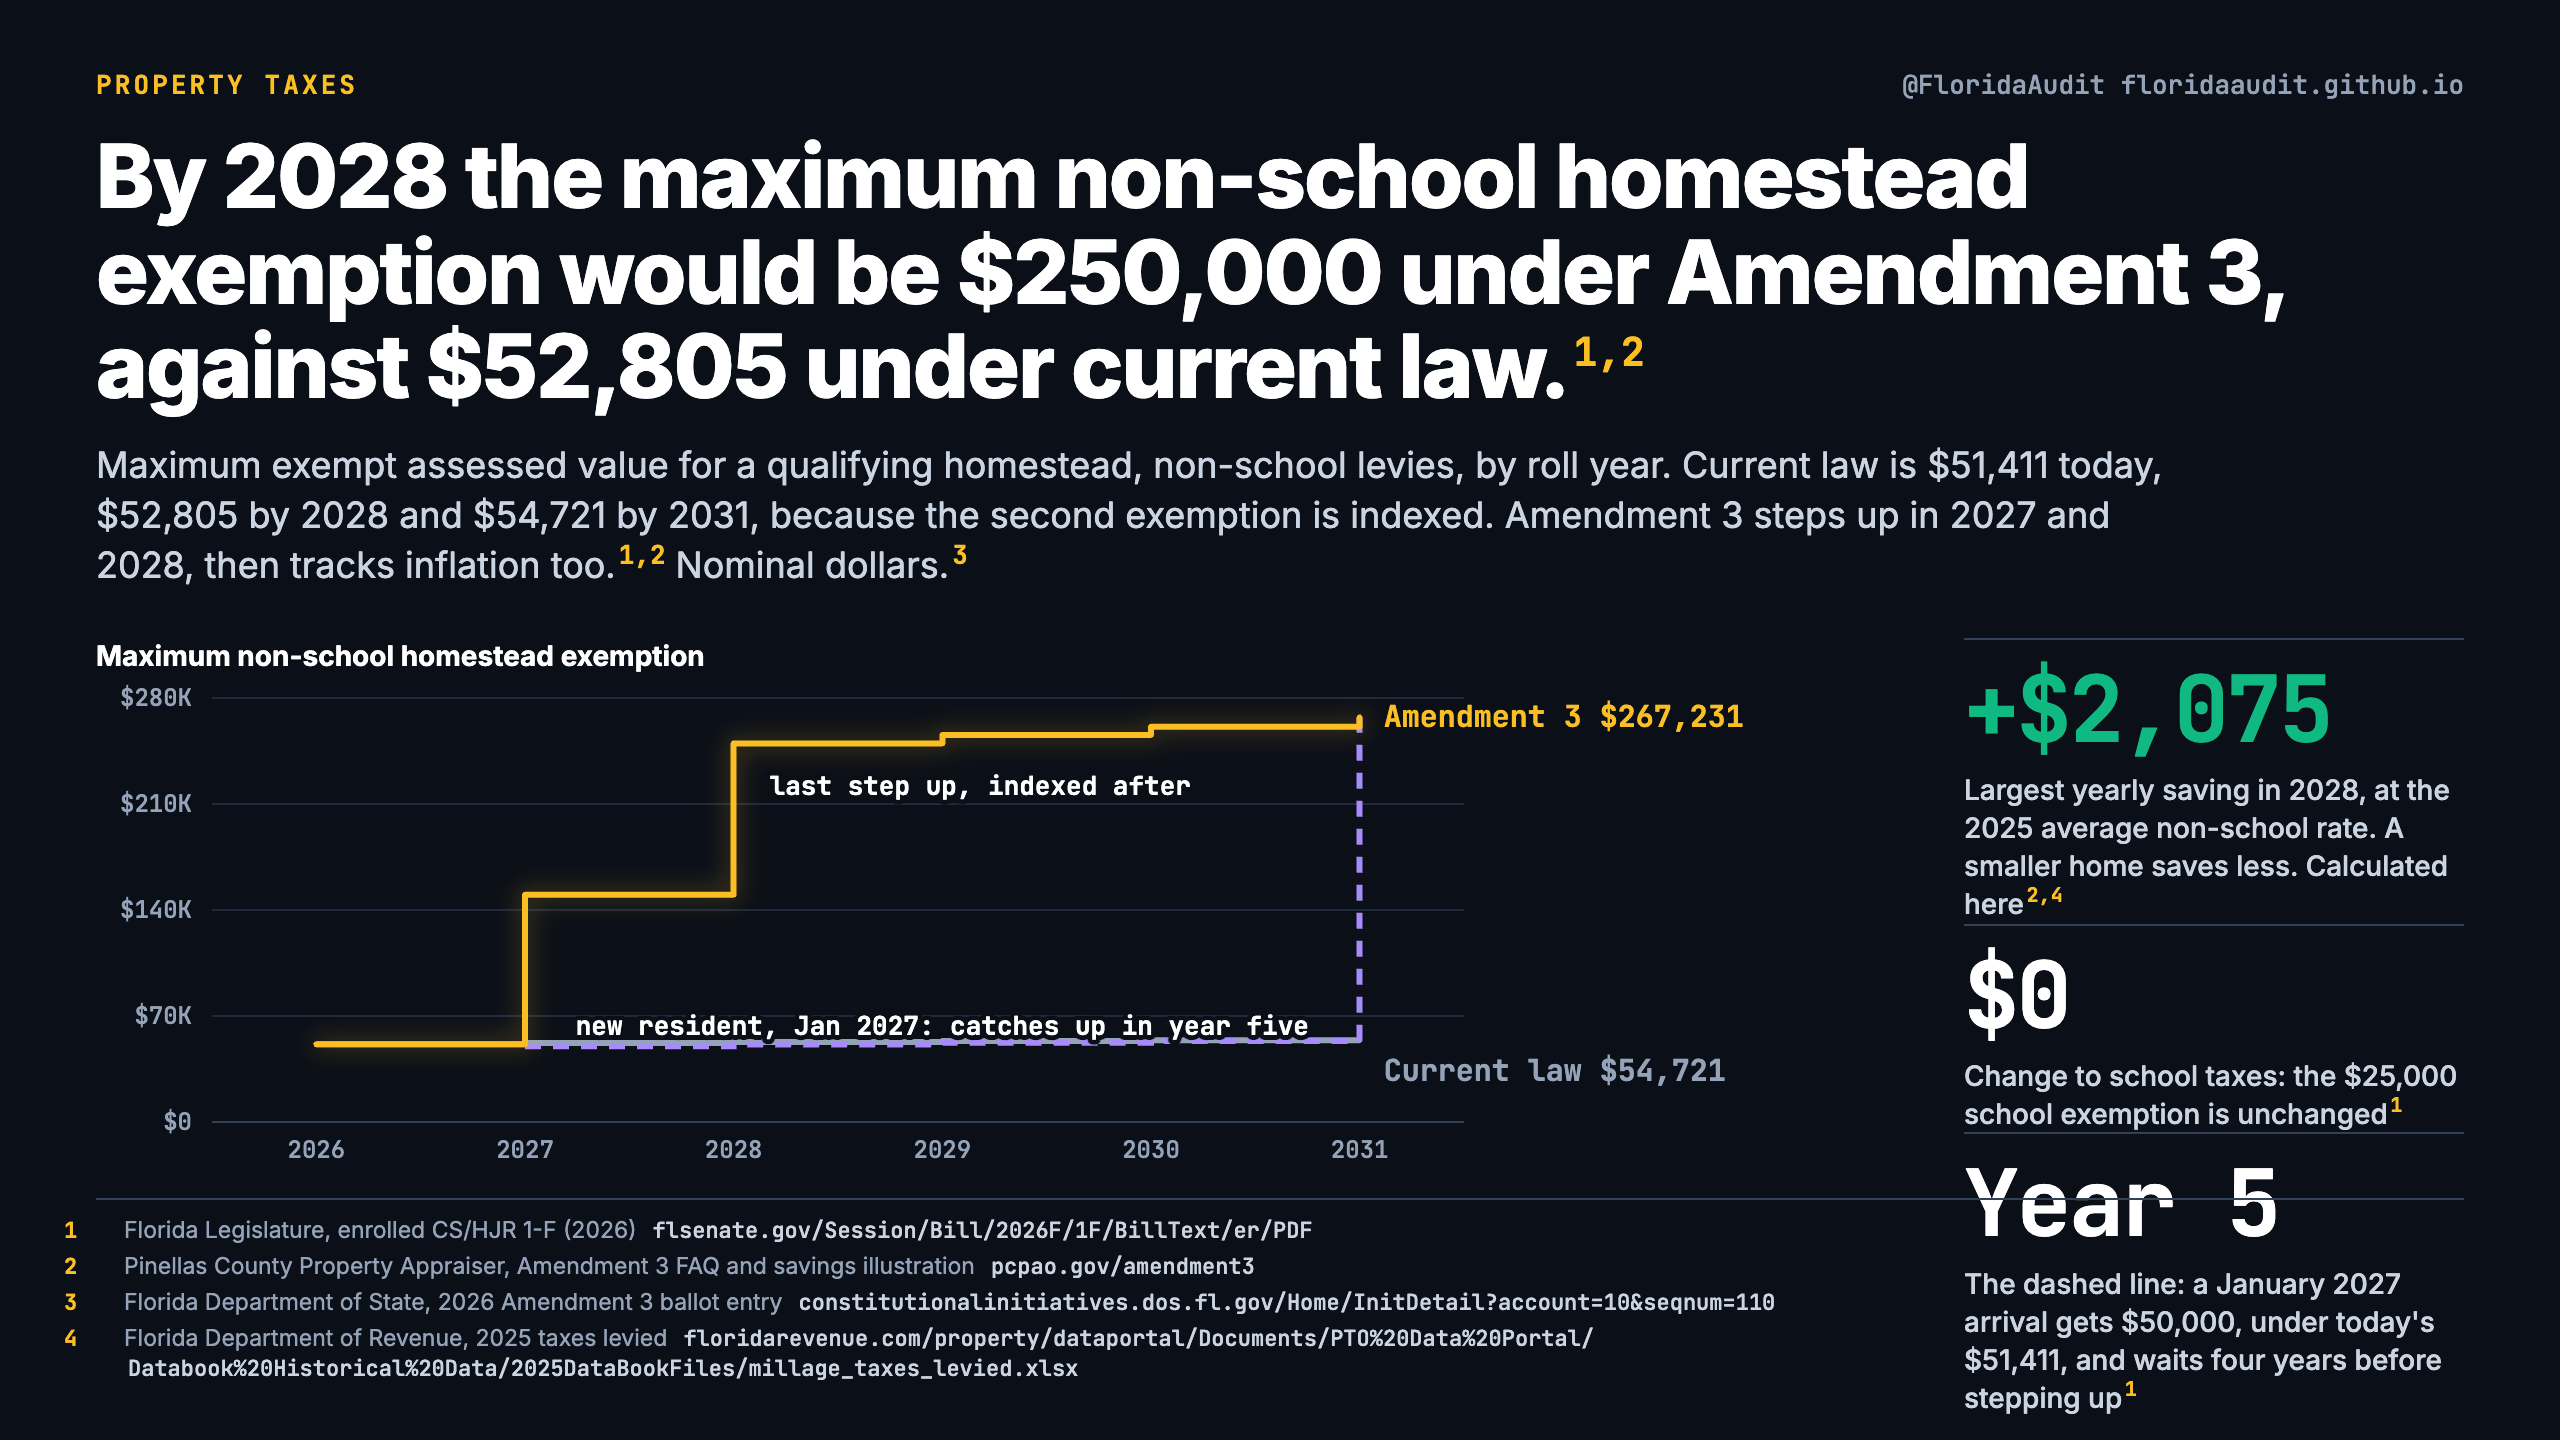
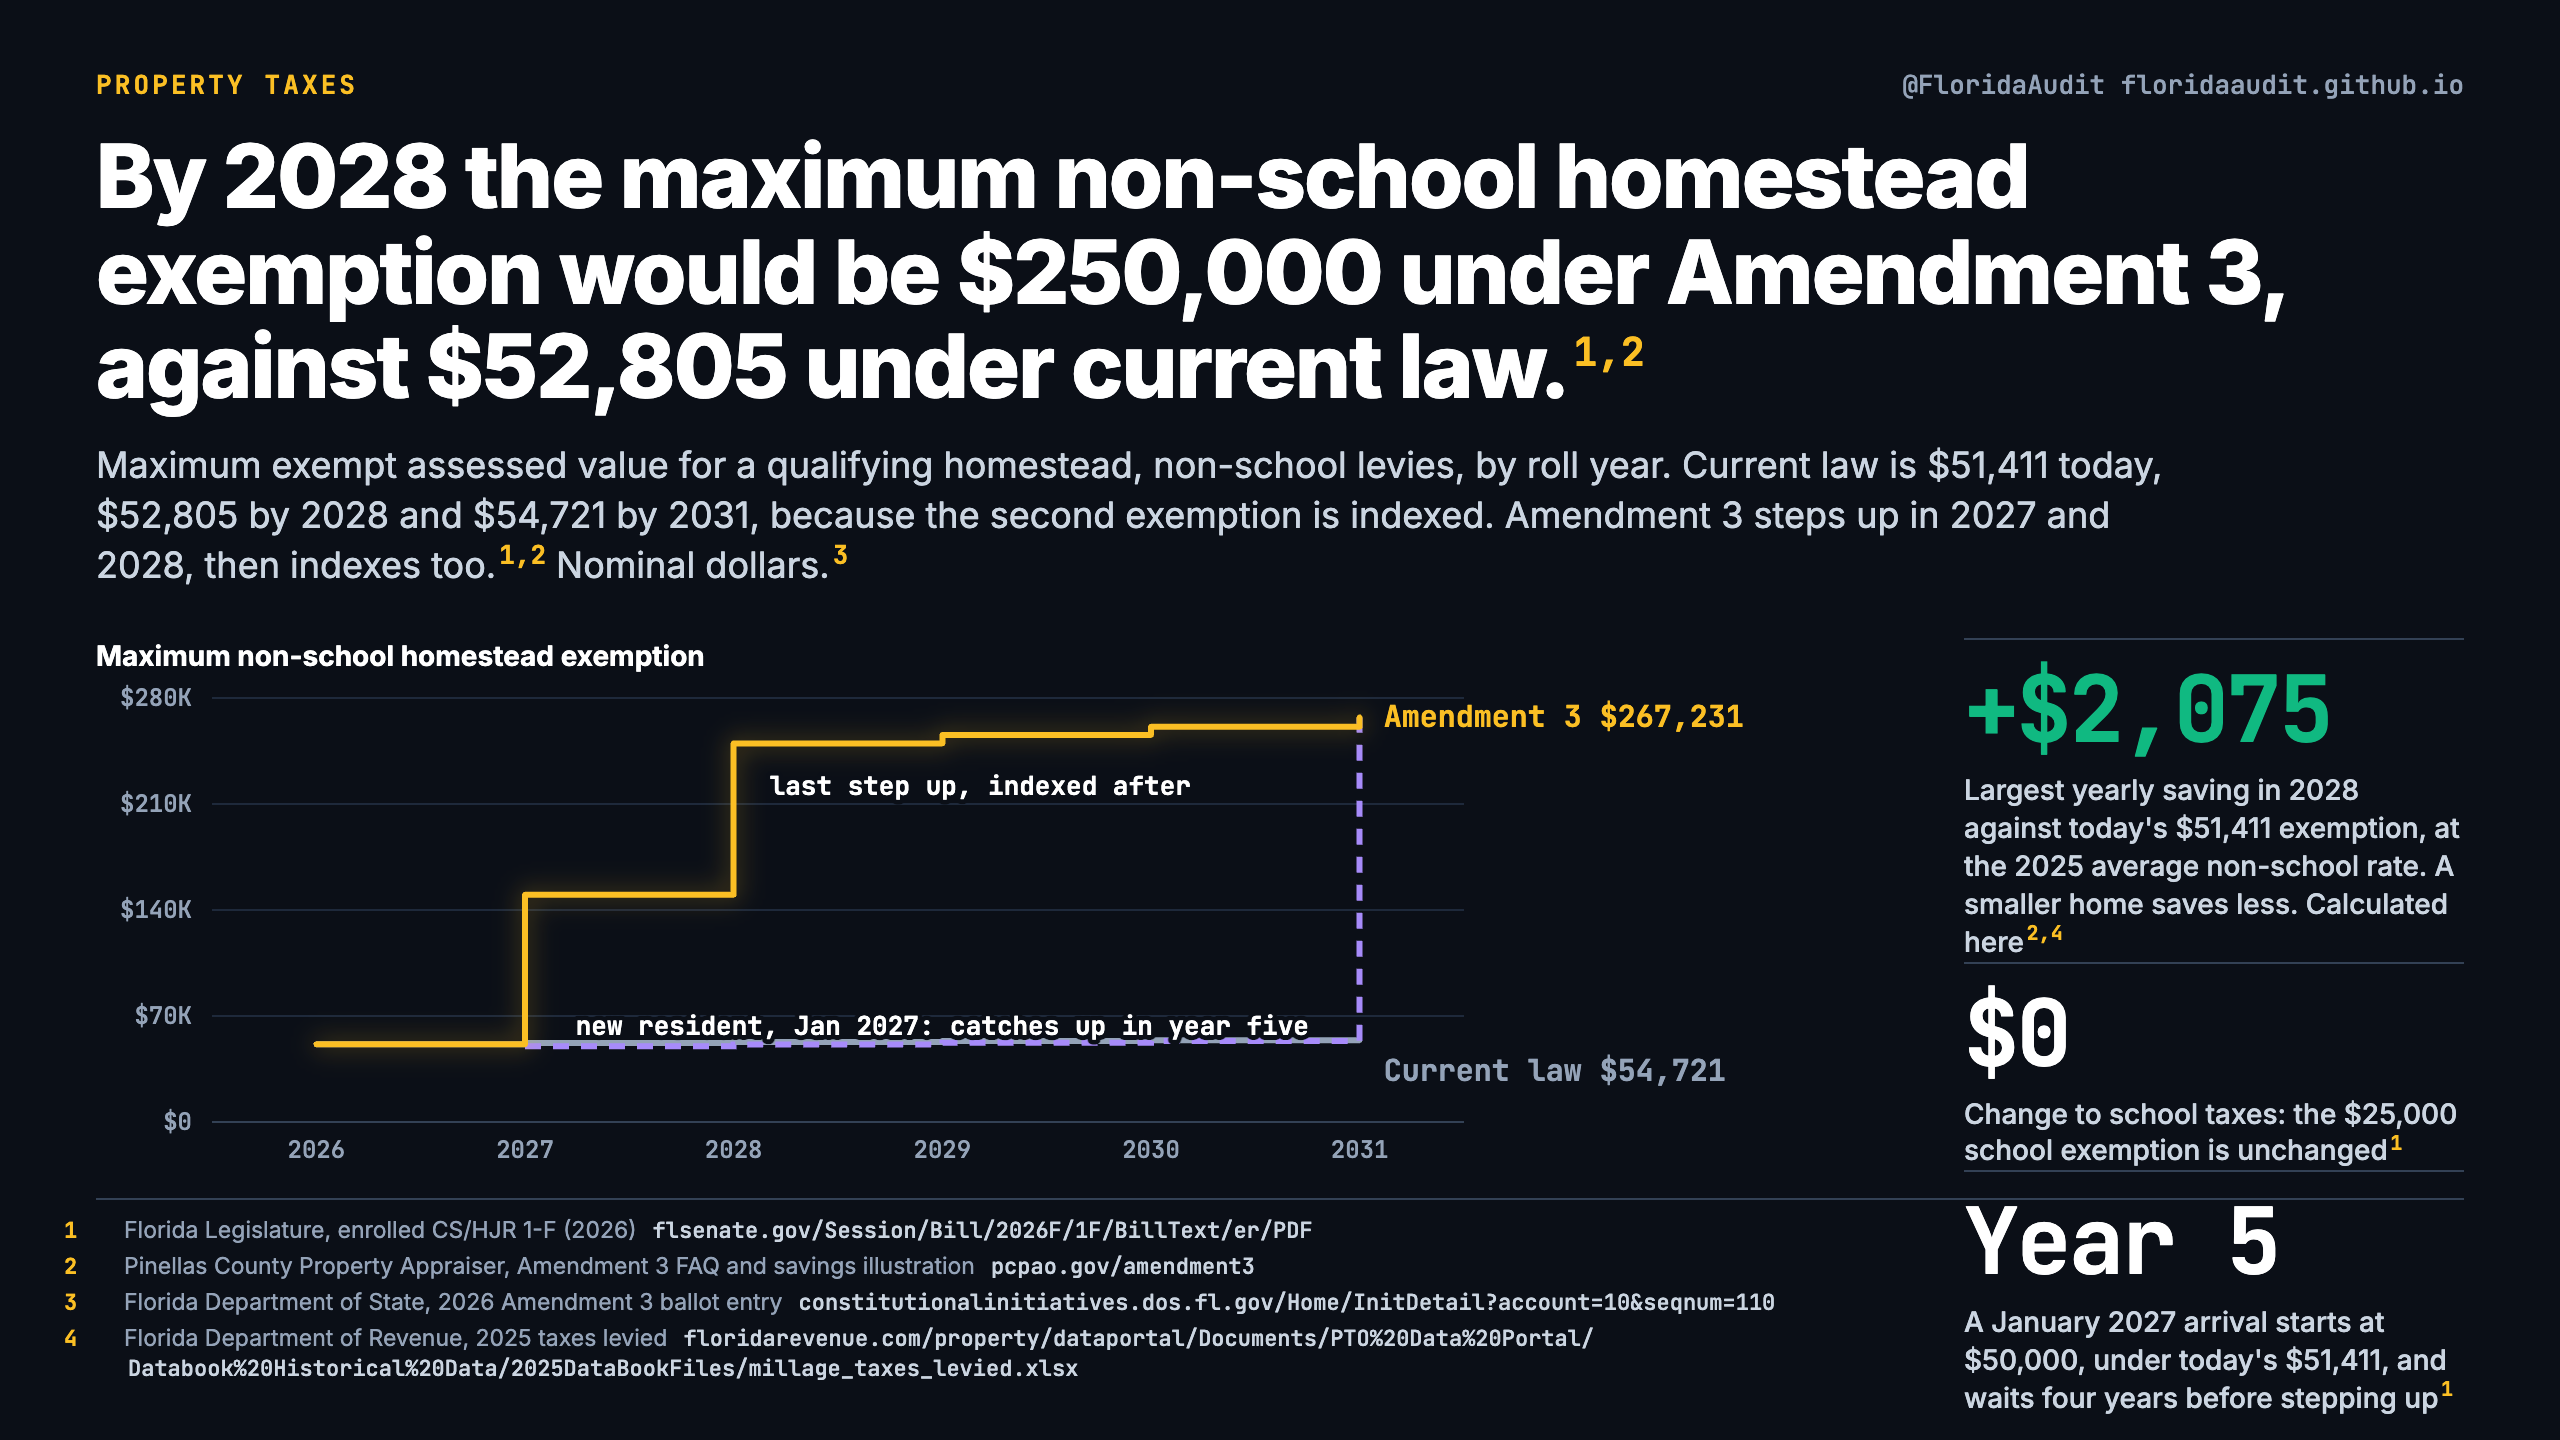
Chart images rebuilt

Changed region(s): [[0.75, 0.5312, 0.9688, 1.0], [0.0938, 0.375, 0.375, 0.4062]]

diff --git a/c/property-taxes/homestead-exemption-amounts.html b/c/property-taxes/homestead-exemption-amounts.html
@@ -15,13 +15,13 @@
   <meta property="og:image" content="https://floridaaudit.github.io/charts/property-taxes/homestead-exemption-amounts-card.png">
   <meta property="og:image:width" content="1200">
   <meta property="og:image:height" content="630">
-  <meta property="og:image:alt" content="By 2028 the maximum non-school homestead exemption would be $250,000 under Amendment 3, against $52,805 under current law. Maximum exempt assessed value for a qualifying homestead, non-school levies, by roll year. Current law is $51,411 today, $52,805 by 2028 and $54,721 by 2031, because the second exemption is indexed. Amendment 3 steps up in 2027 and 2028, then tracks inflation too. Nominal dollars.">
+  <meta property="og:image:alt" content="By 2028 the maximum non-school homestead exemption would be $250,000 under Amendment 3, against $52,805 under current law. Maximum exempt assessed value for a qualifying homestead, non-school levies, by roll year. Current law is $51,411 today, $52,805 by 2028 and $54,721 by 2031, because the second exemption is indexed. Amendment 3 steps up in 2027 and 2028, then indexes too. Nominal dollars.">
   <meta name="twitter:card" content="summary_large_image">
   <meta name="twitter:site" content="@FloridaAudit">
   <meta name="twitter:title" content="By 2028 the maximum non-school homestead exemption would be $250,000 under Amendment 3, against $52,805 under current law.">
   <meta name="twitter:description" content="Property Taxes: Maximum exempt assessed value for a qualifying homestead, non-school levies, by roll year.">
   <meta name="twitter:image" content="https://floridaaudit.github.io/charts/property-taxes/homestead-exemption-amounts-card.png">
-  <meta name="twitter:image:alt" content="By 2028 the maximum non-school homestead exemption would be $250,000 under Amendment 3, against $52,805 under current law. Maximum exempt assessed value for a qualifying homestead, non-school levies, by roll year. Current law is $51,411 today, $52,805 by 2028 and $54,721 by 2031, because the second exemption is indexed. Amendment 3 steps up in 2027 and 2028, then tracks inflation too. Nominal dollars.">
+  <meta name="twitter:image:alt" content="By 2028 the maximum non-school homestead exemption would be $250,000 under Amendment 3, against $52,805 under current law. Maximum exempt assessed value for a qualifying homestead, non-school levies, by roll year. Current law is $51,411 today, $52,805 by 2028 and $54,721 by 2031, because the second exemption is indexed. Amendment 3 steps up in 2027 and 2028, then indexes too. Nominal dollars.">
   <link rel="icon" href="/assets/favicon.png" type="image/png">
   <link rel="stylesheet" href="/assets/site.css">
   <script type="application/ld+json">
@@ -71,9 +71,9 @@
   <article>
     <p class="kicker">Property Taxes</p>
     <h1>By 2028 the maximum non-school homestead exemption would be $250,000 under Amendment 3, against $52,805 under current law.</h1>
-    <p class="sub">Maximum exempt assessed value for a qualifying homestead, non-school levies, by roll year. Current law is $51,411 today, $52,805 by 2028 and $54,721 by 2031, because the second exemption is indexed. Amendment 3 steps up in 2027 and 2028, then tracks inflation too. Nominal dollars.</p>
+    <p class="sub">Maximum exempt assessed value for a qualifying homestead, non-school levies, by roll year. Current law is $51,411 today, $52,805 by 2028 and $54,721 by 2031, because the second exemption is indexed. Amendment 3 steps up in 2027 and 2028, then indexes too. Nominal dollars.</p>
     <figure>
-      <img src="/charts/property-taxes/homestead-exemption-amounts.webp" width="1280" height="720" alt="By 2028 the maximum non-school homestead exemption would be $250,000 under Amendment 3, against $52,805 under current law. Maximum exempt assessed value for a qualifying homestead, non-school levies, by roll year. Current law is $51,411 today, $52,805 by 2028 and $54,721 by 2031, because the second exemption is indexed. Amendment 3 steps up in 2027 and 2028, then tracks inflation too. Nominal dollars.">
+      <img src="/charts/property-taxes/homestead-exemption-amounts.webp" width="1280" height="720" alt="By 2028 the maximum non-school homestead exemption would be $250,000 under Amendment 3, against $52,805 under current law. Maximum exempt assessed value for a qualifying homestead, non-school levies, by roll year. Current law is $51,411 today, $52,805 by 2028 and $54,721 by 2031, because the second exemption is indexed. Amendment 3 steps up in 2027 and 2028, then indexes too. Nominal dollars.">
       <figcaption>Full size: <a href="/charts/property-taxes/homestead-exemption-amounts.png">PNG, 2560 by 1440</a></figcaption>
     </figure>
     <p class="download"><a href="/data/property-taxes/exemption-schedule.csv">Download the data behind this chart (exemption-schedule.csv)</a></p>

diff --git a/c/property-taxes/index.html b/c/property-taxes/index.html
@@ -28,7 +28,7 @@
       <dt>What these charts establish</dt><dd>What the amendment's text does and who it reaches: homesteads, non-homestead property through a lower assessment cap, and renters not at all. It also carries the state Revenue Estimating Conference's estimate of lost local revenue, statewide and county by county. It does not show how counties and cities would respond.</dd>
     </dl>
     <ul class="topic-charts">
-      <li><a href="/c/property-taxes/homestead-exemption-amounts.html"><img src="/charts/property-taxes/homestead-exemption-amounts.webp" width="1280" height="720" alt="By 2028 the maximum non-school homestead exemption would be $250,000 under Amendment 3, against $52,805 under current law. Maximum exempt assessed value for a qualifying homestead, non-school levies, by roll year. Current law is $51,411 today, $52,805 by 2028 and $54,721 by 2031, because the second exemption is indexed. Amendment 3 steps up in 2027 and 2028, then tracks inflation too. Nominal dollars." loading="lazy"><span>By 2028 the maximum non-school homestead exemption would be $250,000 under Amendment 3, against $52,805 under current law.</span></a></li>
+      <li><a href="/c/property-taxes/homestead-exemption-amounts.html"><img src="/charts/property-taxes/homestead-exemption-amounts.webp" width="1280" height="720" alt="By 2028 the maximum non-school homestead exemption would be $250,000 under Amendment 3, against $52,805 under current law. Maximum exempt assessed value for a qualifying homestead, non-school levies, by roll year. Current law is $51,411 today, $52,805 by 2028 and $54,721 by 2031, because the second exemption is indexed. Amendment 3 steps up in 2027 and 2028, then indexes too. Nominal dollars." loading="lazy"><span>By 2028 the maximum non-school homestead exemption would be $250,000 under Amendment 3, against $52,805 under current law.</span></a></li>
       <li><a href="/c/property-taxes/homeowner-savings.html"><img src="/charts/property-taxes/homeowner-savings.webp" width="1280" height="720" alt="From 2028, the exemption would cut a homestead's non-school property tax by at most $2,075 a year. Yearly saving for one qualifying homestead, not for a household: the exempt value added over the 2026 maximum ($98,589 in 2027, $198,589 in 2028), taxed at an average non-school rate, with no rate or inflation changes. $2,075 is the ceiling, reached only by a home with enough assessed value to use the whole exemption; below that a home saves in proportion to its assessed value, and a renter saves nothing. The statewide figure is calculated here from Department of Revenue millage. Pinellas County is the sole county who published its own illustration, at 12.2011 mills against the state's 10.449." loading="lazy"><span>From 2028, the exemption would cut a homestead's non-school property tax by at most $2,075 a year.</span></a></li>
       <li><a href="/c/property-taxes/renters-and-new-residents.html"><img src="/charts/property-taxes/renters-and-new-residents.webp" width="1280" height="720" alt="Florida's 2.92 million renter households would get no homestead exemption. Occupied housing units by tenure, Florida, 2024. The exemption attaches to an owner's permanent residence, so the owner-occupied share is the pool that can claim one and no part of Amendment 3 reaches a renter directly. The census counts occupancy, not exemptions." loading="lazy"><span>Florida's 2.92 million renter households would get no homestead exemption.</span></a></li>
       <li><a href="/c/property-taxes/local-revenue-impact.html"><img src="/charts/property-taxes/local-revenue-impact.webp" width="1280" height="720" alt="Amendment 3 would reduce local non-school property tax revenue by an estimated $11.83 billion a year by 2031. Estimated reduction in local non-school property tax revenue by the government that levies it. On the November 3, 2026 ballot; needs 60% to pass. Ten counties carry $7.54B of it, led by Miami-Dade $1.39B and Broward $1.19B, with all 67 in the CSV. It keeps growing after the exemption stops stepping up in 2028, because the conference counts the sixth year as the recurring impact and the lower assessment cap compounds. Holds 2025 tax rates constant. Nominal dollars." loading="lazy"><span>Amendment 3 would reduce local non-school property tax revenue by an estimated $11.83 billion a year by 2031.</span></a></li>
